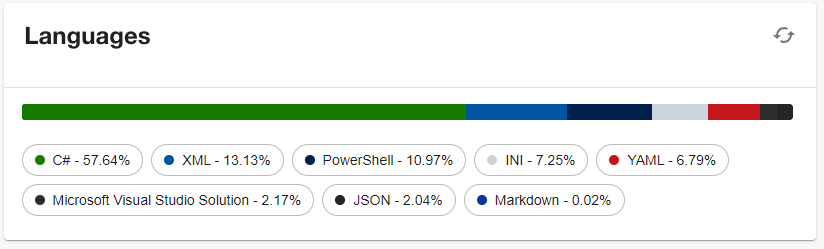
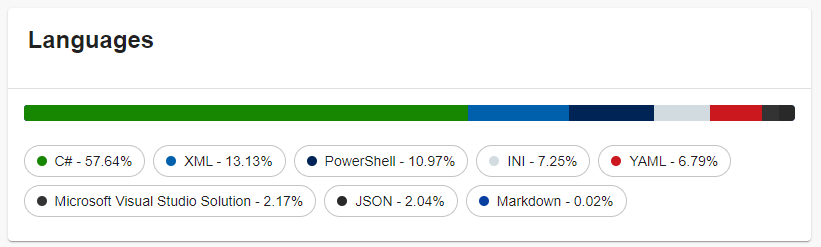
Corrected Linguist README

diff --git a/plugins/linguist/README.md b/plugins/linguist/README.md
@@ -10,13 +10,9 @@ When there is no Linguist data yet the card will be empty:
 
 ![Example of empty Linguist card](./docs/linguist-no-data.png)
 
-Clicking on the refresh icon will generate the language breakdown:
+Once the language breakdown has been generated the card will look like this:
 
-![Example of Linguist card with data](./docs/linguist-with-data.png)
-
-Here's an example where the permissions are hiding the refresh button:
-
-![Example of Linguist card without the refresh button](./docs/linguist-no-refresh.png)
+![Example of Linguist card without the refresh button](./docs/linguist-with-data.png)
 
 ## Setup
 

diff --git a/.changeset/weak-coats-allow.md b/.changeset/weak-coats-allow.md
@@ -1,0 +1,5 @@
+---
+'@backstage/plugin-linguist': patch
+---
+
+Updated `README.md` to removed images with refresh button as this feature was not implemented in the current version
